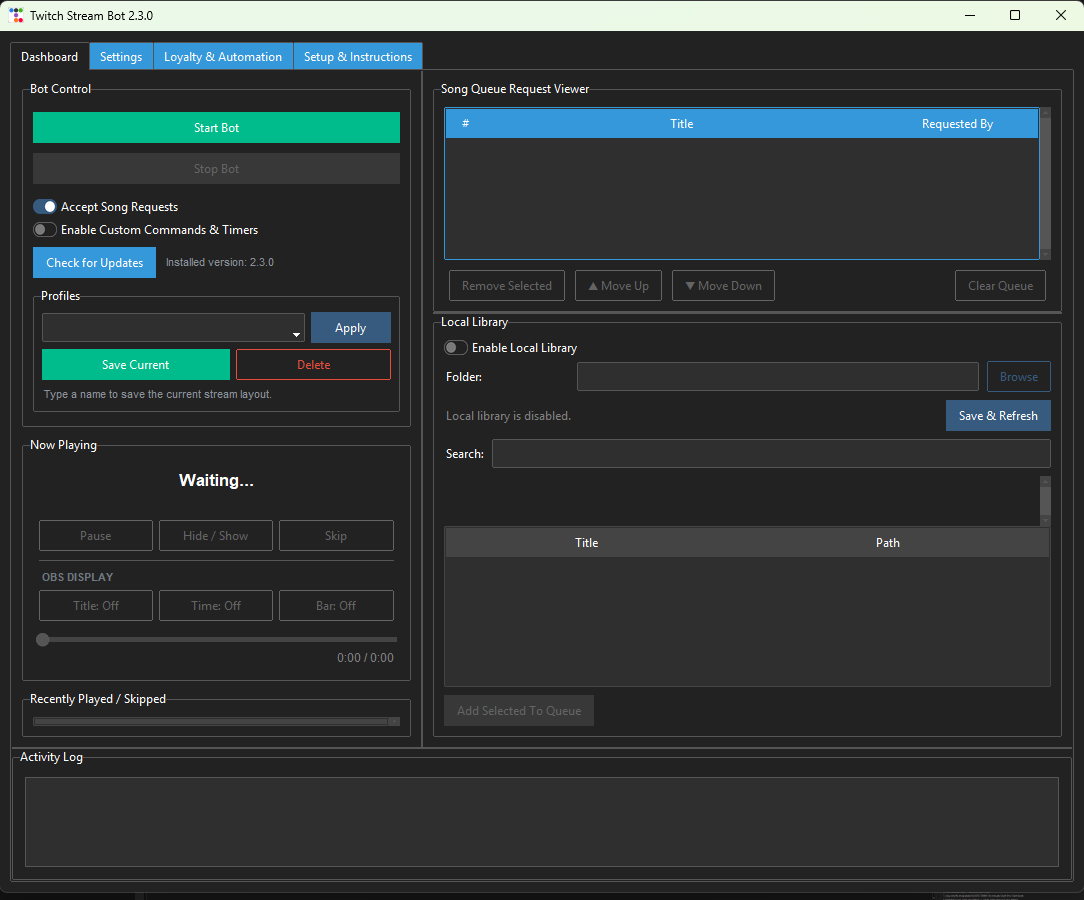
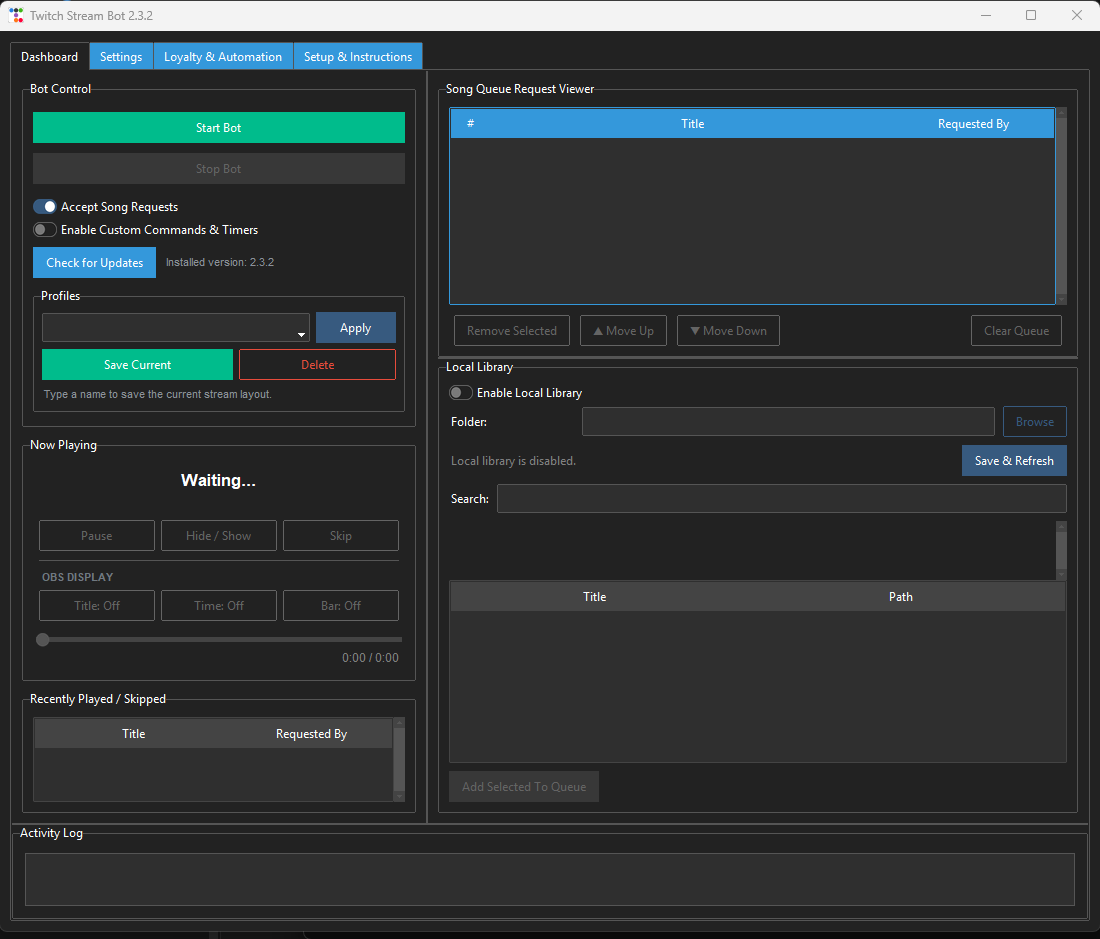
Rebalance dashboard history and activity log

Changed region(s): [[0.0, 0.0, 0.9742, 0.9022], [0.0304, 0.9644, 0.9742, 1.0]]

diff --git a/run_gui.py b/run_gui.py
@@ -277,7 +277,7 @@ class BotApp:
         ).pack(anchor="w", pady=(5, 0))
         
         np_lb = tb.Labelframe(left_frame, text="Now Playing", padding=10)
-        np_lb.pack(fill=BOTH, expand=True)
+        np_lb.pack(fill=X)
         
         self.np_title_var = tb.StringVar(value="Waiting...")
         self.np_req_var = tb.StringVar(value="")
@@ -385,7 +385,13 @@ class BotApp:
         hist_lb.pack(fill=BOTH, expand=True, pady=(10, 0))
         
         hist_columns = ("title", "req")
-        self.hist_tree = tb.Treeview(hist_lb, columns=hist_columns, show="headings", bootstyle=SECONDARY)
+        self.hist_tree = tb.Treeview(
+            hist_lb,
+            columns=hist_columns,
+            show="headings",
+            bootstyle=SECONDARY,
+            height=5,
+        )
         self.hist_tree.heading("title", text="Title")
         self.hist_tree.heading("req", text="Requested By")
         self.hist_tree.column("title", width=150, stretch=True)
@@ -524,7 +530,7 @@ class BotApp:
             )
         )
 
-        self.log_output = ScrolledText(log_lb, height=8, autohide=True)
+        self.log_output = ScrolledText(log_lb, height=3, autohide=True)
         self.log_output.pack(fill=BOTH, expand=True)
         self.log_output.text.configure(state="disabled", wrap="word")
         self.log_output = self.log_output.text
@@ -536,7 +542,7 @@ class BotApp:
             self.root.update_idletasks()
             total_height = self.dashboard_pane.winfo_height()
             if total_height > 350:
-                log_height = max(145, min(190, total_height // 4))
+                log_height = max(90, min(110, total_height // 8))
                 self.dashboard_pane.sashpos(0, total_height - log_height)
         except tk.TclError:
             pass

diff --git a/settings.py b/settings.py
@@ -8,7 +8,7 @@ from typing import Any
 from pydantic import BaseModel, ValidationError, Field
 
 PROJECT_ROOT = Path(__file__).resolve().parent
-APP_VERSION = "2.3.1"
+APP_VERSION = "2.3.2"
 
 DEFAULT_BUILTIN_RESPONSES = {
     "balance": "@{user}, {target} has {balance} {balance_currency}.",